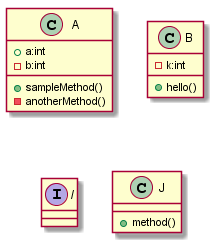
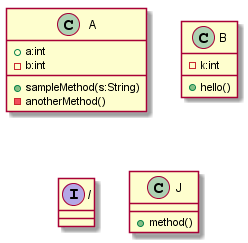
displaying method declarations with parameters and parameter types

diff --git a/PersonalProject/Outputs/output.java b/PersonalProject/Outputs/output.java
@@ -2,7 +2,7 @@
 class A{
 +a:int
 -b:int
-+sampleMethod()
++sampleMethod(s:String)
 -anotherMethod()
 }
 class B{
